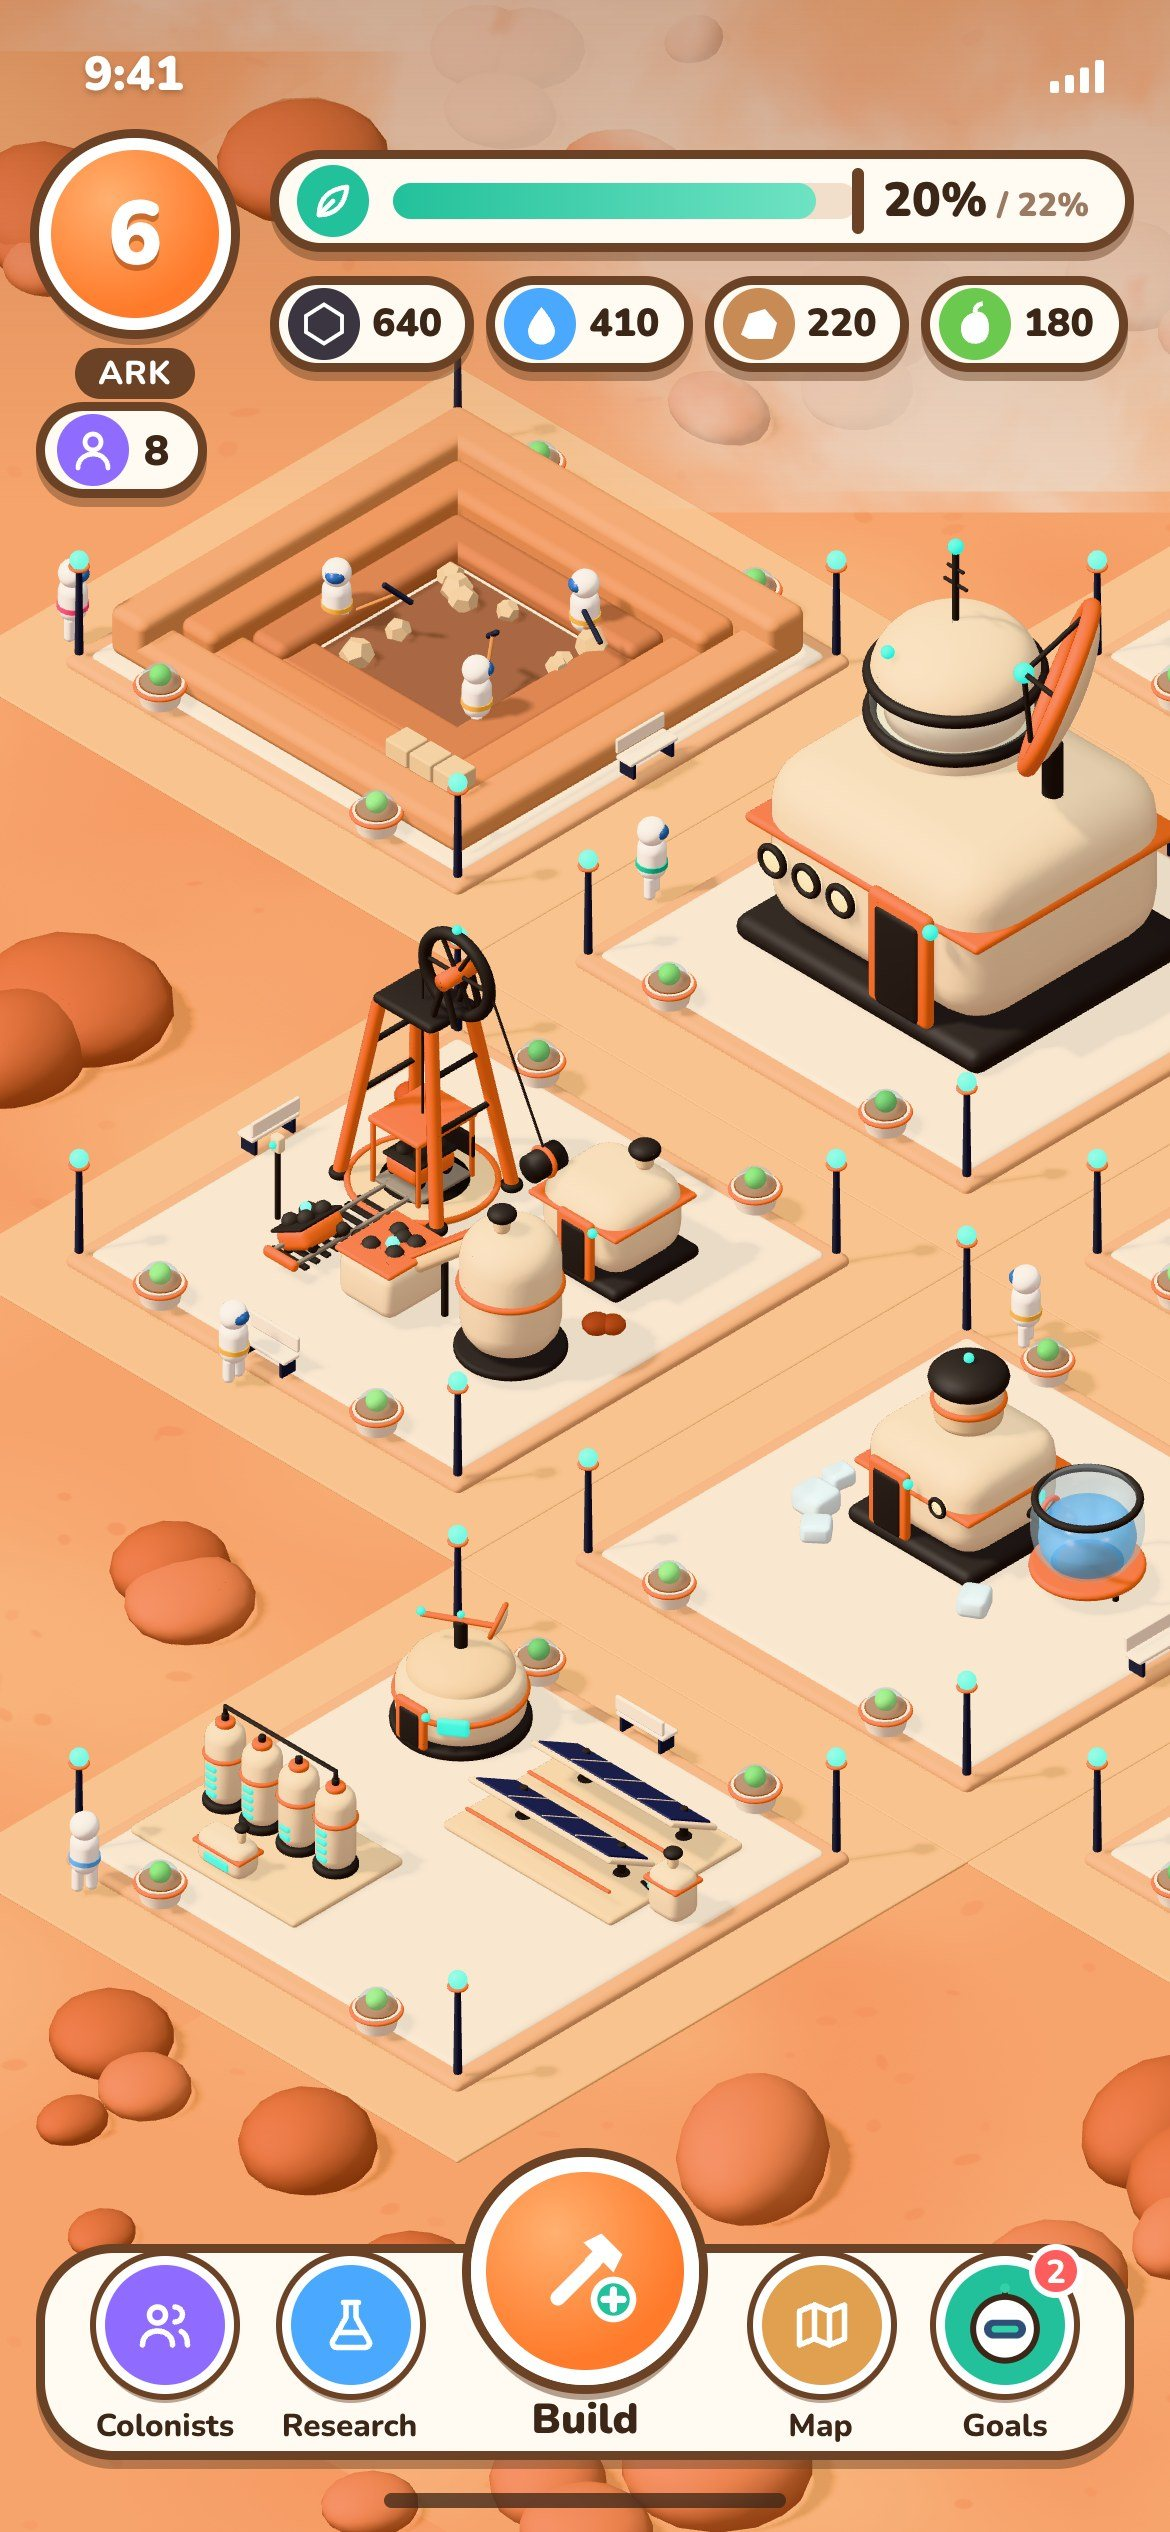
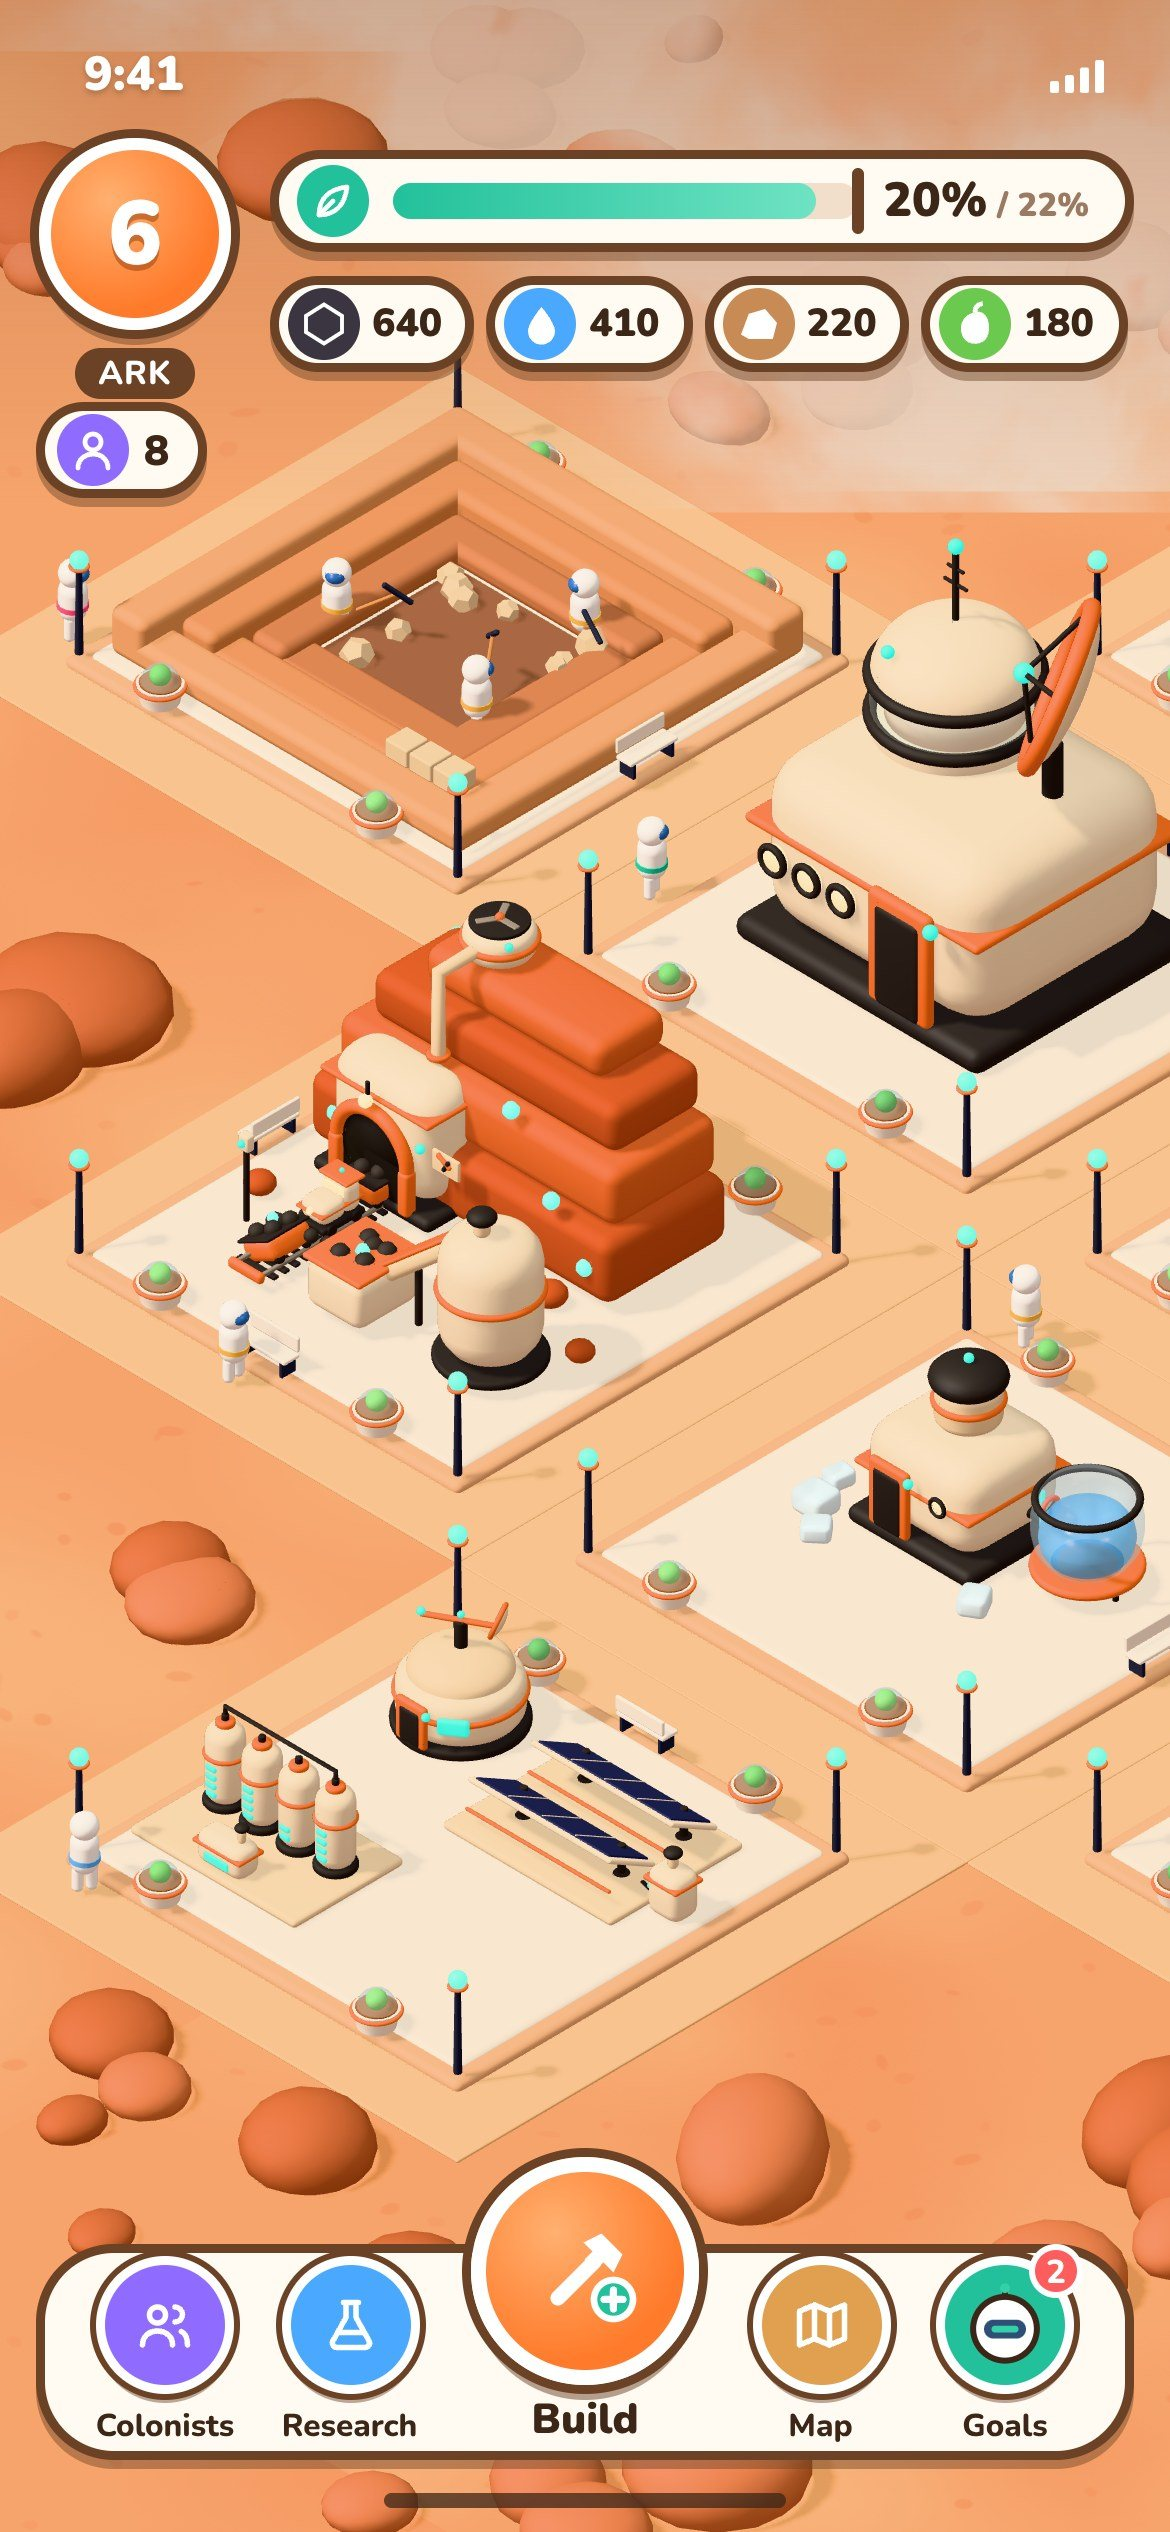
Start the mine as a tunnel and grow it into a shaft
Joro: idea A first, idea B later. levels.md (1.1) and the concept record
it, with mine level 10 as the proposed switch; the map shows the tunnel
at 20% and the shaft with the headframe at 50% and 85%.

Claude-Session: https://claude.ai/code/session_01HQgMkgwDtghkDYBP35HLe9

Changed region(s): [[0.1846, 0.3432, 0.6769, 0.5616]]

diff --git a/mockup/src/map.js b/mockup/src/map.js
@@ -205,7 +205,7 @@ await Promise.all(['ark-v1', 'carbon-drill-v1'].map(async n => {
 }));
 const smooth = n => { const g = new THREE.Group(); g.add(glb[n].clone(true)); return g; };
 // the soft buildings: Draco-compressed, glass stays see-through
-const KK = ['dome', 'kitchen', 'veglab', 'research', 'warehouse', 'solar', 'batteries', 'pump', 'greenhouse', 'processor', 'furnace', 'mine', 'geolocator'];
+const KK = ['dome', 'kitchen', 'veglab', 'research', 'warehouse', 'solar', 'batteries', 'pump', 'greenhouse', 'processor', 'furnace', 'mine', 'mine-portal', 'geolocator'];
 const kkGlb = {};
 if (KIT) {
   const draco = new DRACOLoader(); draco.setDecoderPath('node_modules/three/examples/jsm/libs/draco/'); gltf.setDRACOLoader(draco);
@@ -272,7 +272,8 @@ const kkBase = {
   '0,2': b => add(kk('veglab', 9.6), b.cx, 0.4, b.cz, 0),
   '0,-2': b => add(kk('dome', 9.8), b.cx, 0.4, b.cz, 0),
   '2,0': b => { add(kk('kitchen', 10.2), b.cx, 0.4, b.cz, 0); dust(b.cx - 1.4, 7.4, b.cz - 1.6, 2.4, 0xffffff, 0.45); },
-  '-2,0': b => { add(kk('mine', 10), b.cx, 0.4, b.cz, 0); },
+  // the mine starts as a tunnel in the cliff and later becomes a shaft with a headframe (Joro, 05.11.2026)
+  '-2,0': b => { if (S === 0) add(kk('mine-portal', 10.4), b.cx, 0.4, b.cz, 0); else add(kk('mine', 10), b.cx, 0.4, b.cz, 0); },
   '2,-2': b => add(kk('warehouse', 10), b.cx, 0.4, b.cz, 0),
   '2,2': b => add(kk('greenhouse', 10.4), b.cx, 0.4, b.cz, 0),
   '-2,2': b => { add(kk('solar', 6.4), b.cx + 2.4, 0.4, b.cz - 2.4, 0); add(kk('batteries', 5.2), b.cx - 3.0, 0.4, b.cz + 3.0, 0); add(kk('geolocator', 3.4), b.cx - 3.4, 0.4, b.cz - 3.4, 0); },

diff --git a/docs/notes.md b/docs/notes.md
@@ -72,6 +72,7 @@
 | С какво правим приложението | Приложение за iOS и Android е решено. С какво: предложение Unity или three.js в приложение (Capacitor), за да ползваме опита от Starhop | Отворен |
 | Колонистите | По един на ниво, най-много 100; купол и сграда за храна на последното си ниво побират по 20, затова 5 купола. Кухнята се вдига до ниво 20, после се строят други сгради за храна (Жоро, 04.11.2026). Числата за местата, сградите след кухнята и специалностите са предложение | Решен |
 | Рисърч: втори слот и учен | На ниво 10 рисърч сградата се подобрява и получава втори слот и място за учен, който скъсява проучванията (Жоро, 04.11.2026) | Решен |
+| Видът на мината | В началото тунел в скалата (вариант А), по-късно шахта с кула и колело (вариант Б). Кога става шахта, ще решим; предложение: ниво 10 на мината (Жоро, 05.11.2026) | Решен |
 | Ден и нощ, складът | Нощем сградите работят с нормална скорост, както денем, стига да има енергия; батериите нямат място за работник; складът побира 1000 на ниво 1 и расте 1,4 пъти на ниво (Жоро, 04.11.2026) | Решен |
 | Логиката по нива | Играта се води по docs/levels.md: общите правила, складът и балансът, купол, кухня, работници, мина, лаборатория, енергия и силиций, нивата и рисърчът (Жоро, 03.11.2026; нивата 1–10 са написани на 04.11.2026). При противоречие с концепцията или хода на играта важи този файл | Решен |
 | Език на играта | Английски: текстовете в самата игра са на английски (Жоро, 03.11.2026); досега беше предложение | Решен |
@@ -117,6 +118,7 @@
 
 | Дата | Промяна | Статус |
 | --- | --- | --- |
+| 05.11.2026 | Жоро: мината е в началото вариант А (тунел в скалата), а после вариант Б (шахта с кула). Записано в docs/levels.md (1.1) и в концепцията; нивото на смяната е предложение (ниво 10 на мината). В макета: при 20% е тунелът, при 50% и 85% шахтата | Готово |
 | 05.11.2026 | Жоро: вариант А на мината (скала с портал) по същия начин. Тунел в стената на каньона: локомотивче изкарва количката, релсите водят до бункера, където количката изсипва рудата, лента до силоза, вентилатор на скалата с тръба до портала. Проверен отгоре и от три страни (тръбата минаваше през скалата, оправено). art/3d/buildings/mine-portal.glb и кадърът mine-portal-kk; в макета засега е вариант Б | Готово |
 | 05.11.2026 | Жоро: мината наново, с логика, без пресичания. Показани бяха три идеи (скала с портал, шахта с кула, хълм с врата) и три вариации на шахтата; Жоро избра шахтата. Новата мина работи като една машина: кабината изкарва количката от шахтата, количката отива по релсите до бункера и изсипва рудата, лента качва рудата в силоза, въжето минава през колелото до лебедката. Проверена отгоре и от три страни; в art/3d/buildings, в макета и в кадъра mine-kk | Готово |
 | 05.11.2026 | Жоро: в макета сградите да стоят като на листа, подравнени с мрежата, а не обърнати с лице към камерата. В map.html сградите вече не са завъртени на 45°: камерата ги вижда откъм ъгъла, вратата е на лявата стена; кадрите map-kk-* са направени наново | Готово |

diff --git a/docs/concept.md b/docs/concept.md
@@ -239,7 +239,7 @@ Nov 1, 2026 · @Georgi Gushev
 | --- | --- | --- |
 | Карбонова сонда | Карбон от залеж | Ниво 1 |
 | Помпа за вода | Вода от лед, по-късно от езера и извори | Ниво 1 |
-| Мина | Вход в стената на каньона, с релси и вагонетка. Работниците копаят, а ти избираш коя суровина копае всеки. На всеки 5 нива мината отключва нова суровина и ново място за работник: камък (1), кварц (5), желязна руда (10), мед (15), кристали (20). След кварца е предложение. Колкото по-дълбоко се копае, толкова повече суровини се намират. Мината заменя кариерата, сондата за метал и мината за мед. | Ниво 2 |
+| Мина | Вход в стената на каньона, с релси и вагонетка; по-късно шахта с кула и колело (Жоро, 05.11.2026). Работниците копаят, а ти избираш коя суровина копае всеки. На всеки 5 нива мината отключва нова суровина и ново място за работник: камък (1), кварц (5), желязна руда (10), мед (15), кристали (20). След кварца е предложение. Колкото по-дълбоко се копае, толкова повече суровини се намират. Мината заменя кариерата, сондата за метал и мината за мед. | Ниво 2 |
 | Глинен изкоп | Глина край водата | Глава 2 |
 | Горска станция | Дърво от засадените гори. Сече и засажда наново, за да не пада атмосферата. | Глава 3 |
 | Кристален добив | Кристали, бавно, само на редки залежи | Глава 6 |

diff --git a/mockup/README.md b/mockup/README.md
@@ -22,7 +22,7 @@
 | `buildings-kk.jpg` | Сградите на глава 1 една по една в избрания стил (`art/3d/buildings`, Жоро, 05.11.2026): кремави заоблени тела, оранжева лента, тъмна основа, светещи прозорци; през стъклото на кухнята, лабораторията и оранжерията се вижда вътре |
 | `mine-portal-kk.jpg` | Мината, вариант А, от три страни: тунел в скалата, локомотивче с количка, релси до бункера, лента до силоза, вентилатор с тръба до портала |
 | `mine-kk.jpg` | Мината като една машина, от три страни: шахта с кула и колело, кабина с количка, релси до бункера, лента до силоза, въже до лебедката |
-| `map-kk-20.jpg`, `map-kk-50.jpg` | Примерната карта (`map.html#kk20`, `#kk50`) със заоблените сгради; Ковчегът и сондата са от CellCog |
+| `map-kk-20.jpg`, `map-kk-50.jpg` | Примерната карта (`map.html#kk20`, `#kk50`) със сградите в избрания стил; мината е тунел в скалата при 20% и шахта с кула при 50%; Ковчегът и сондата са от CellCog |
 | `map-kk-20-zoom-a.jpg`, `map-kk-20-zoom-b.jpg`, `map-kk-20-zoom-c.jpg` | Същата карта отблизо: купол, рисърч, процесор, лаборатория, помпа, мина, геолокатор, панели и батерии |
 | `map-kk-20-night.jpg` | Същата карта нощем: светят прозорците и тюркоазените светлинки |
 
